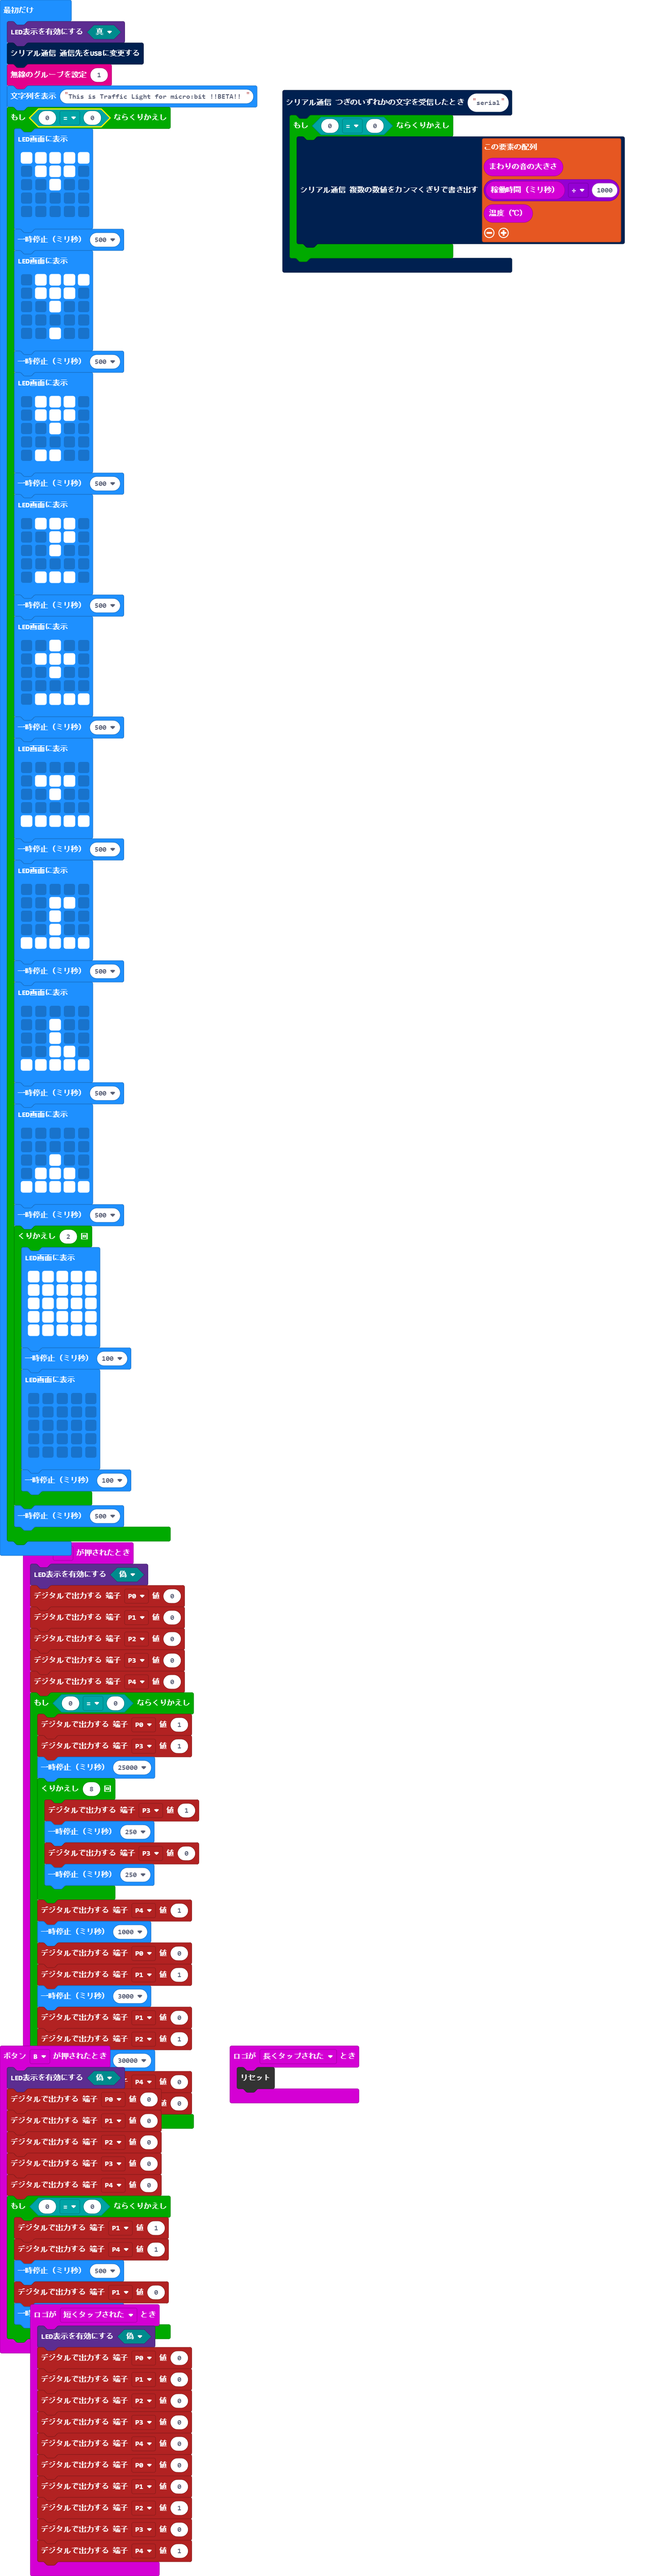
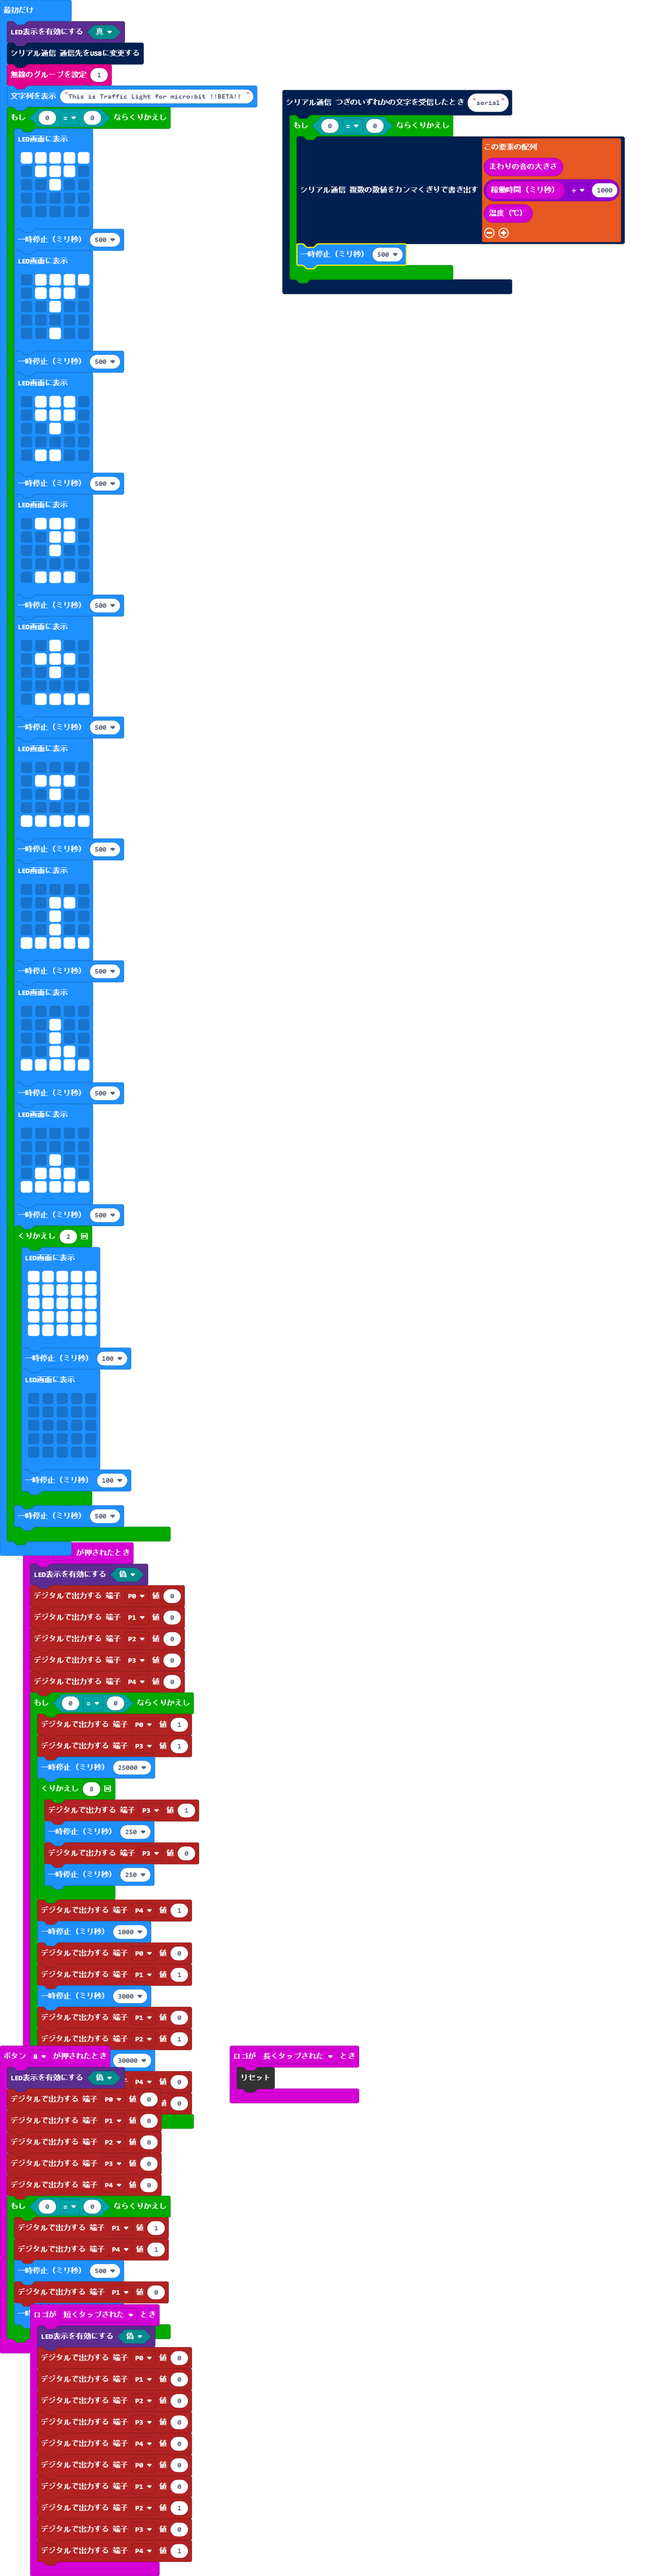
更新 main.blocks, main.ts

Changed region(s): [[0.4285, 0.0936, 0.7651, 0.1248]]

diff --git a/main.ts b/main.ts
@@ -37,6 +37,7 @@ serial.onDataReceived("serial", function () {
         input.runningTime() / 1000,
         input.temperature()
         ])
+        basic.pause(500)
     }
 })
 input.onButtonPressed(Button.B, function () {
